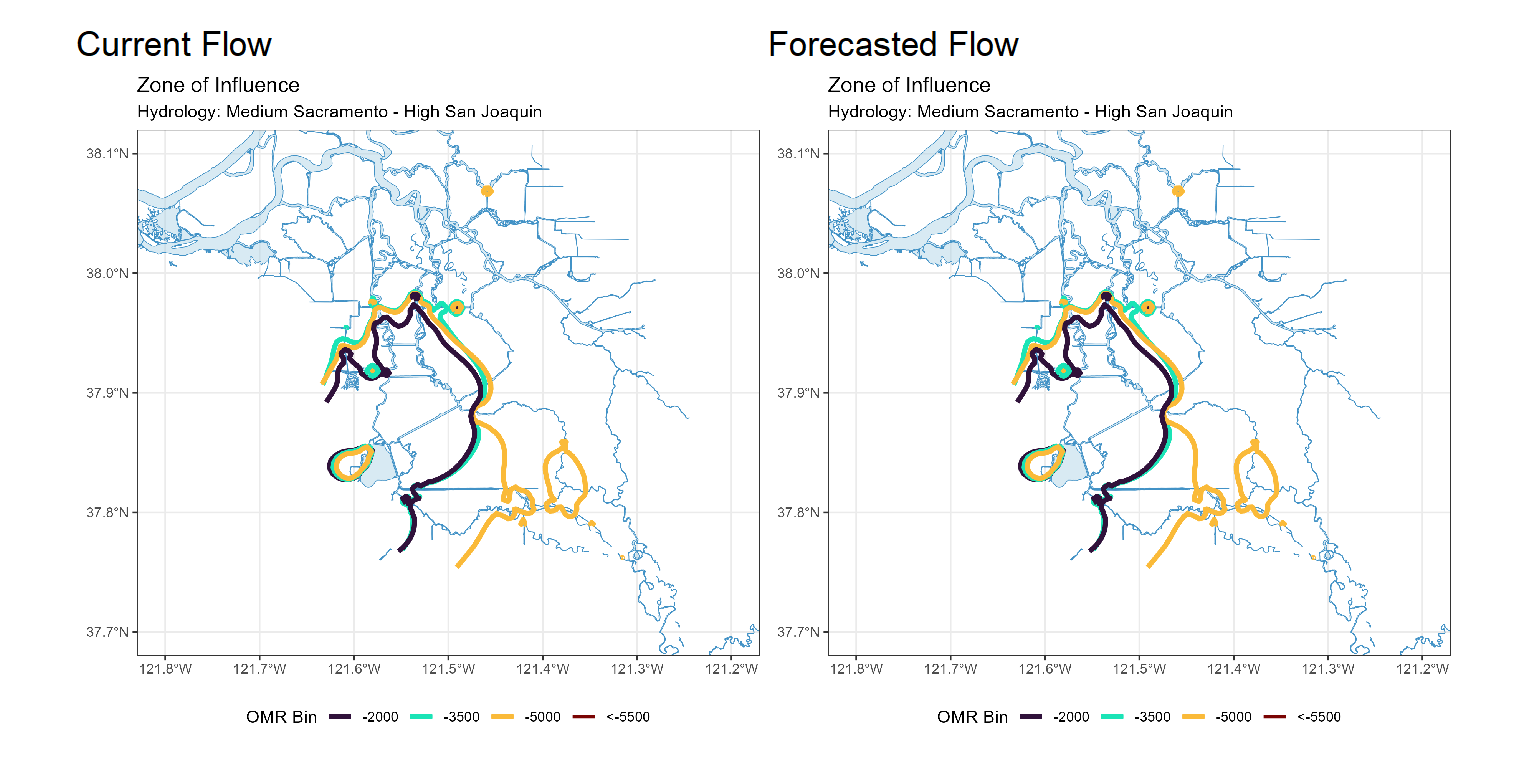
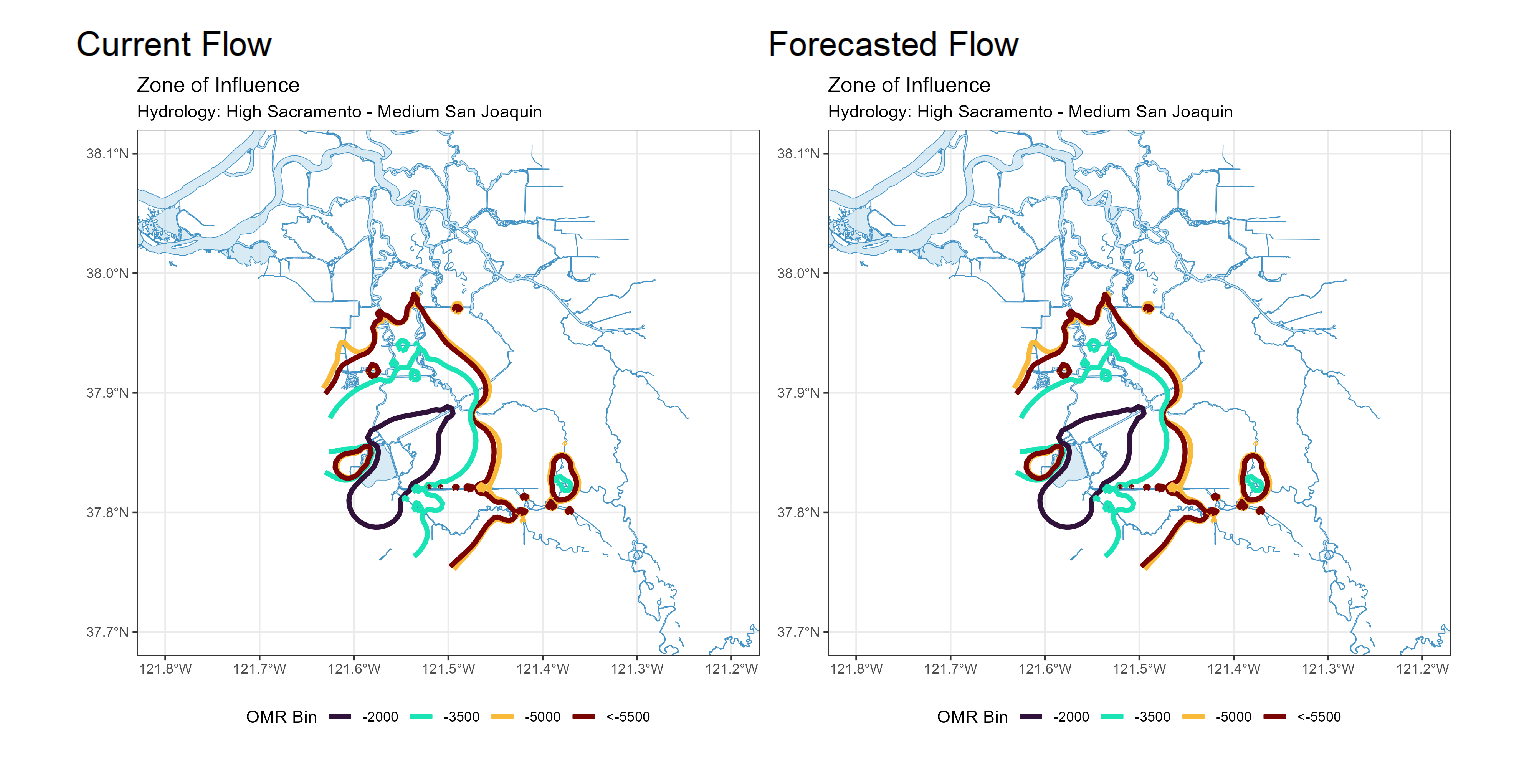
hydro flow updates

diff --git a/delta_hydro.html b/delta_hydro.html
@@ -140,9 +140,9 @@ Table&nbsp;1: Summary of Actions and Triggers, WY 2026
 <h3 class="anchored" data-anchor-id="zone-of-influence">Zone of Influence</h3>
 <p>The Zone of Influence (ZOI) analysis served as a Line of Evidence for comparing alternative actions in the Long Term Operations EIS. This analysis evaluated the spatial extent of hydrologic alteration resulting from pumping under varying Old and Middle River flow conditions and Sacramento-San Joaquin river inflow conditions. This analysis was adapted for the assessment by focusing on a single alternative, Alt2woTUCPDeltaVa, which served as the proposed action in the 2024 Record of Decision, and binned maps into 1 of 9 categories based on low, medium, and high inflows from the Sacramento and San Joaquin flow. In general, changes in channel length across OMR levels may correlate with entrainment risk, where larger increases in channel length from more positive to more negative OMR represent greater entrainment risk.</p>
 <p>Current conditions were queried from most recent Freeport flow data on the Sacramento River and Vernalis flow data on the San Joaquin river from <a href="https://www.cbr.washington.edu/sacramento/data/query_river_table.html">SacPAS</a>. Forecasted flows were queried from short range deterministic flows provided by the <a href="https://www.cnrfc.noaa.gov/deterministicHourlyProductCSV.php">California Nevada River Forecast Center</a>.</p>
-<p>Current conditions at Freeport and Vernalis indicate that delta hydrology falls within the ‘medhi’ category. Forecasted conditions averaged across the next 7 days falls within the ‘medhi’ category.</p>
-<p>The altered channel length for the current “medhi” hydrology is 55, 92 and 153 kilometers (km) across OMR bins of -2000, -3500 and -5000 respectively. The altered channel length for forecasted “medhi” hydrology is 55, 92 and 153 kilometeres (km) across OMR bins of -2000, -3500 and -5000 respectively.</p>
-<p>Change in altered channel length between OMR levels is 98 km for current conditions and 98 km for forecasted conditions indicating that ZOI impacts across OMR scenarios would not change between current and forecasted conditions. Across the nine hydrology bins, changes in altered channel length across OMR scenarios are moderate (between 25th and 75th percentiles) for both current and forecasted hydrology.</p>
+<p>Current conditions at Freeport and Vernalis indicate that delta hydrology falls within the ‘himed’ category. Forecasted conditions averaged across the next 7 days falls within the ‘himed’ category.</p>
+<p>The altered channel length for the current “himed” hydrology is 23, 53, 118 and 111 kilometers (km) across OMR bins of -2000, -3500, -5000 and &lt;-5500 respectively. The altered channel length for forecasted “himed” hydrology is 23, 53, 118 and 111 kilometeres (km) across OMR bins of -2000, -3500, -5000 and &lt;-5500 respectively.</p>
+<p>Change in altered channel length between OMR levels is 88 km for current conditions and 88 km for forecasted conditions indicating that ZOI impacts across OMR scenarios would not change between current and forecasted conditions. Across the nine hydrology bins, changes in altered channel length across OMR scenarios are moderate (between 25th and 75th percentiles) for both current and forecasted hydrology.</p>
 <div id="fig-zoi_graph" class="quarto-float quarto-figure quarto-figure-center anchored">
 <figure class="quarto-float quarto-float-fig figure">
 <div aria-describedby="fig-zoi_graph-caption-0ceaefa1-69ba-4598-a22c-09a6ac19f8ca">
